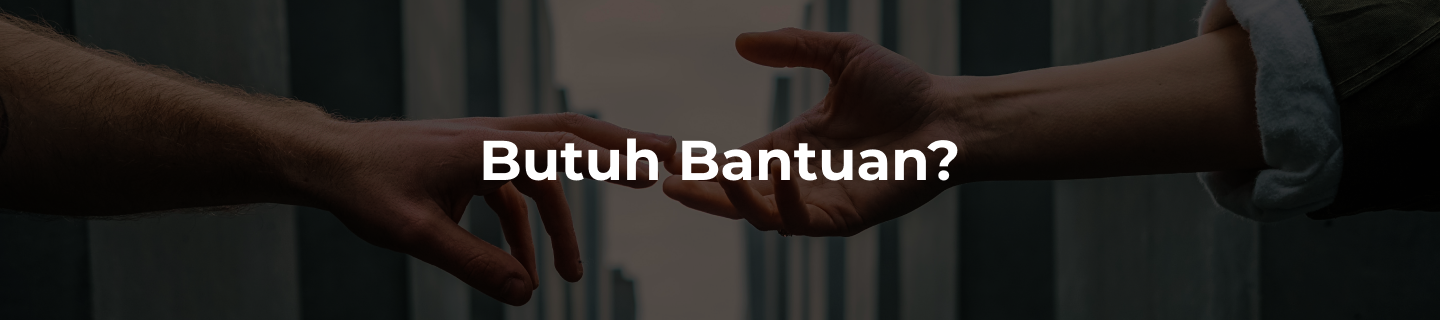
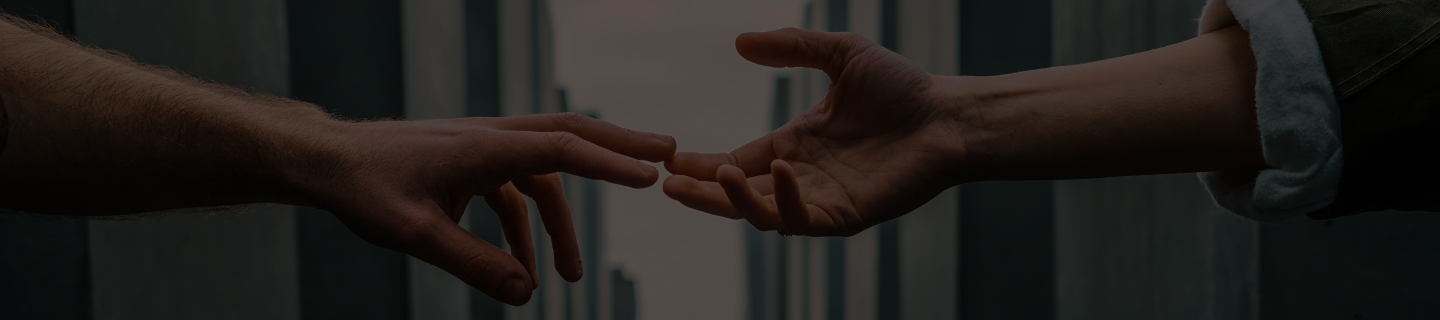
Edit Bantuan2

Changed region(s): [[0.3125, 0.4375, 0.6875, 0.5625]]

diff --git a/src/pages/Bantuan.jsx b/src/pages/Bantuan.jsx
@@ -1,4 +1,5 @@
 "use client"
+import "./css/bantuan.css";
 import { useState } from "react"
 import { Link } from "react-router-dom"
 import faqData from "../data/bantuan-data"
@@ -15,11 +16,22 @@ export default function Bantuan(){
 	}
     return(
         <main>
-			<link
-				href="https://cdnjs.cloudflare.com/ajax/libs/font-awesome/5.15.4/css/all.min.css"
-				rel="stylesheet"></link>
+			<link href="https://cdnjs.cloudflare.com/ajax/libs/font-awesome/5.15.4/css/all.min.css" rel="stylesheet"></link>
 			<section id="deskripsi">
-            <img src="/assets/pusat-bantuan/bantuan.png" alt="Pusat Bantuan" style={{ width: '100%' }} />
+        
+			<div style={{ position: "relative" }}>
+      			<img src="/assets/pusat-bantuan/bantuan.png" alt="Pusat Bantuan" style={{ width: "100%" }}	/>
+				<div
+					style={{
+					position: "absolute",
+					top: "50%",
+					left: "50%",
+					transform: "translate(-50%, -50%)",
+					textAlign: "center",
+					}} >
+					<h1 style={{ color: "white" }}>Butuh Bantuan</h1>
+				</div>
+				</div>
 
 				<div className="container py-5">
 					<div className="col">
@@ -125,42 +137,19 @@ export default function Bantuan(){
 			</section>
 
 			<section id="kontak">
-				<div className="container py-5">
-					<h3 className="text-center mb-4">Hubungi Kami!</h3>
-					<div className="d-flex gap-4 align-items-center justify-content-center">
-						<div>
-							<img
-								src="/assets/pusat-bantuan/cta.jpg"
-								alt="Hubungi Kami"
-								style={{
-									borderRadius: "1rem",
-									height: "200px",
-									width: "400px",
-								}}
-								className="mb-4"
-							/>
-						</div>
-						<div>
-							<a href="">
-								<p
-									className="px-4 py-2 mb-4 rounded-5"
-									style={{ backgroundColor: "var(--white-secondary)" }}>
-									<i
-										class="fab fa-whatsapp fa-lg pe-2"
-										style={{ color: "#1e9c1c" }}></i>
-									+62 123-1234-1234
-								</p>
-							</a>
-							<a href="">
-								<p
-									className="px-4 py-2 mb-4 rounded-5"
-									style={{ backgroundColor: "var(--white-secondary)" }}>
-									<i
-										class="far fa-envelope fa-lg pe-2"
-										style={{ color: "#ff0033" }}></i>
-									bijakcuan@gmail.com
-								</p>
-							</a>
+				
+
+				<div className="hero2 mt-5">
+					<div className="container text-center">
+						<div className="row justify-content-center flex-column-reverse flex-lg-row">
+							<div className="col-lg-8">
+								<h1 className="text-white px-5 mb-5">
+									Buka Kesuksesan Finansial Anda Sekarang Bersama Bijakcuan
+								</h1>
+								<Link to={"/program"} className="btn btn-primary mb-10">
+									Gabung Sekarang
+								</Link>
+							</div>
 						</div>
 					</div>
 				</div>

diff --git a/src/pages/Kontak.jsx b/src/pages/Kontak.jsx
@@ -25,7 +25,7 @@ export default function Kontak(){
                 </div>
 
                 <div className="col-md-6">
-                  <input className="form-control form-control-lg mb-3" type="text" placeholder="Email" />
+                  <input className="form-control form-control-lg mb-3" type="email" placeholder="Email" />
                   <input className="form-control form-control-lg mb-3" type="text" placeholder="Status" />
                 </div>
                 

diff --git a/src/components/footer.jsx b/src/components/footer.jsx
@@ -38,7 +38,7 @@ export default function Footer() {
 						<h6>Hubungi kami</h6>
 						<div className="d-flex flex-column gap-2">
 							<Link to={"/bantuan"}>Pusat Bantuan</Link>
-							<Link to={"/bantuan#kontak"}>Kontak</Link>
+							<Link to={"/kontak"}>Kontak</Link>
 						</div>
 					</div>
 

diff --git a/src/pages/css/bantuan.css b/src/pages/css/bantuan.css
@@ -1,0 +1,12 @@
+  
+body {
+    margin: 0;
+    padding: 0;
+  }
+
+  
+.hero2 {
+    height: 100%;
+    padding: 84px 24px;
+    background-color: black;
+  }
